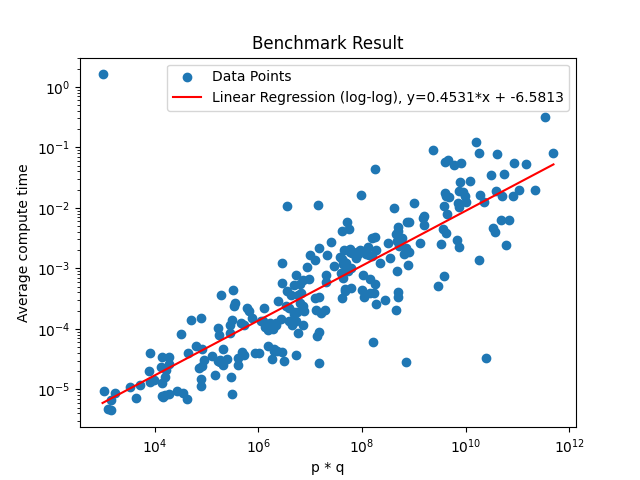
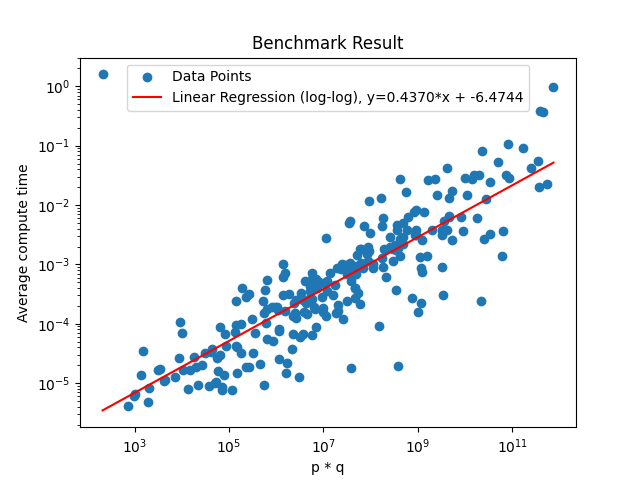
fix: new benchmark

diff --git a/PrimeFactorizer/readme.md b/PrimeFactorizer/readme.md
@@ -42,13 +42,8 @@ With numba jit, things run much faster. For the same RSA 1024, we can calcualte 
 
 ![Benchmark Results](./assets/fig_numba.png)
 
-1. Calculate the log of the expected time:
-   `log_time = 308 * 0.4531 - 6.5813 = 132.9735`
+`time = 10^(308 * 0.4370 - 6.4744) / (60 * 60 * 24 * 365.25) = 4.192722e+120 years`
 
-2. Convert this to seconds:
-   `time = 9.408058e+132 seconds`
 
-3. To express this in years:
-   `time_years = 2.981234e+125 years`
 
 Still a HUGE number, actually so big we can't really represent what it means but much better!
